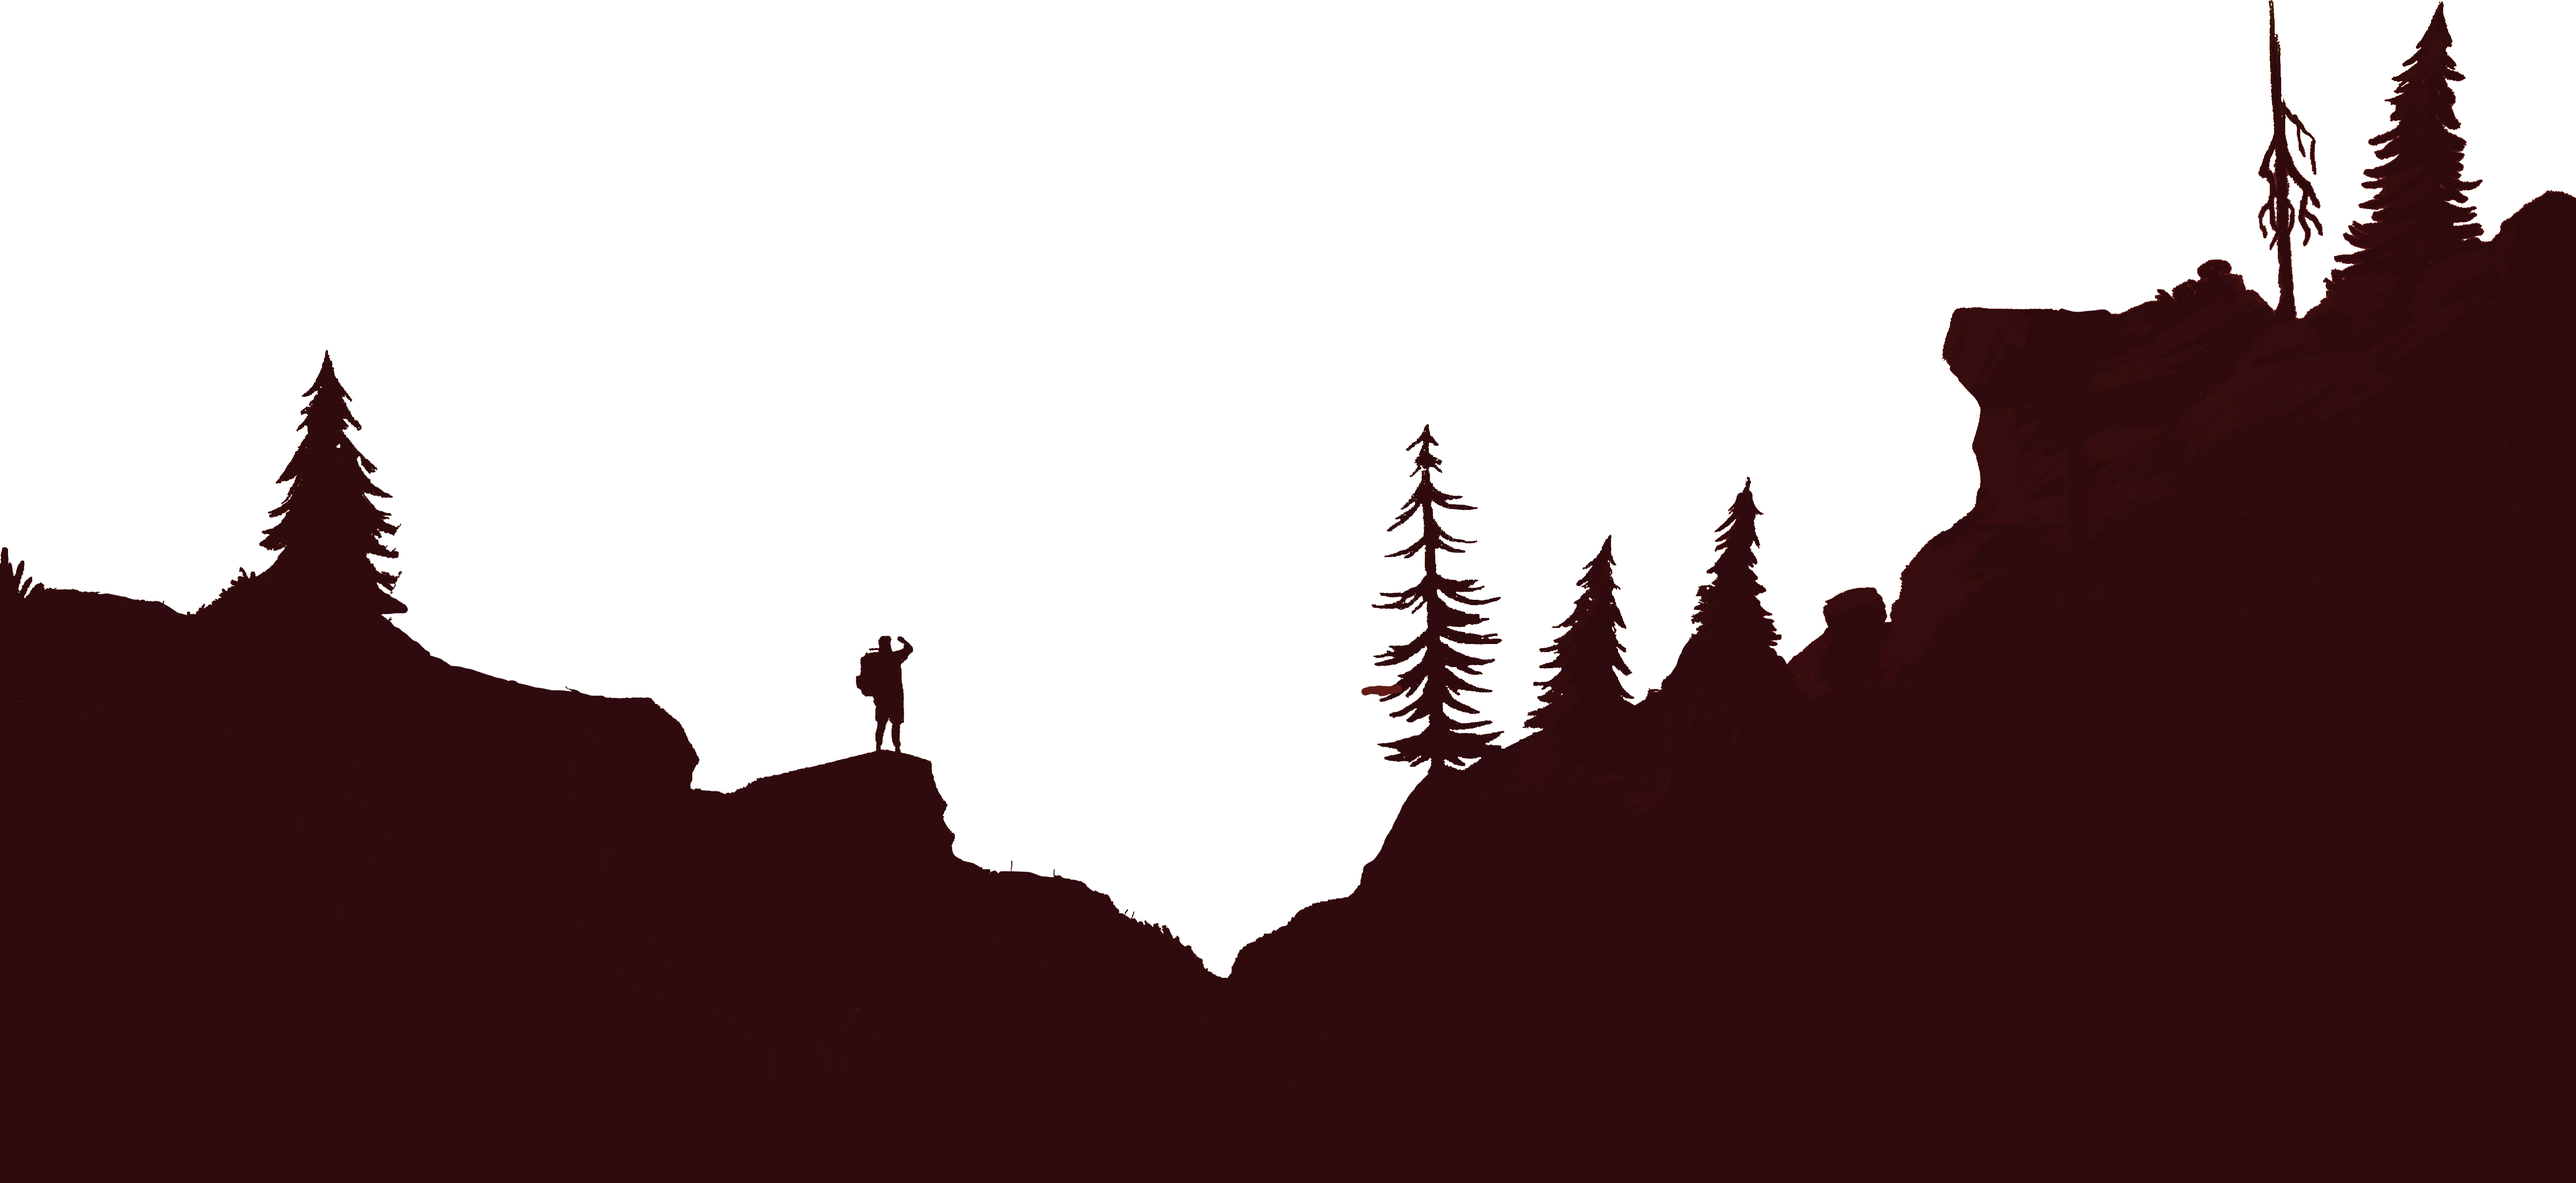
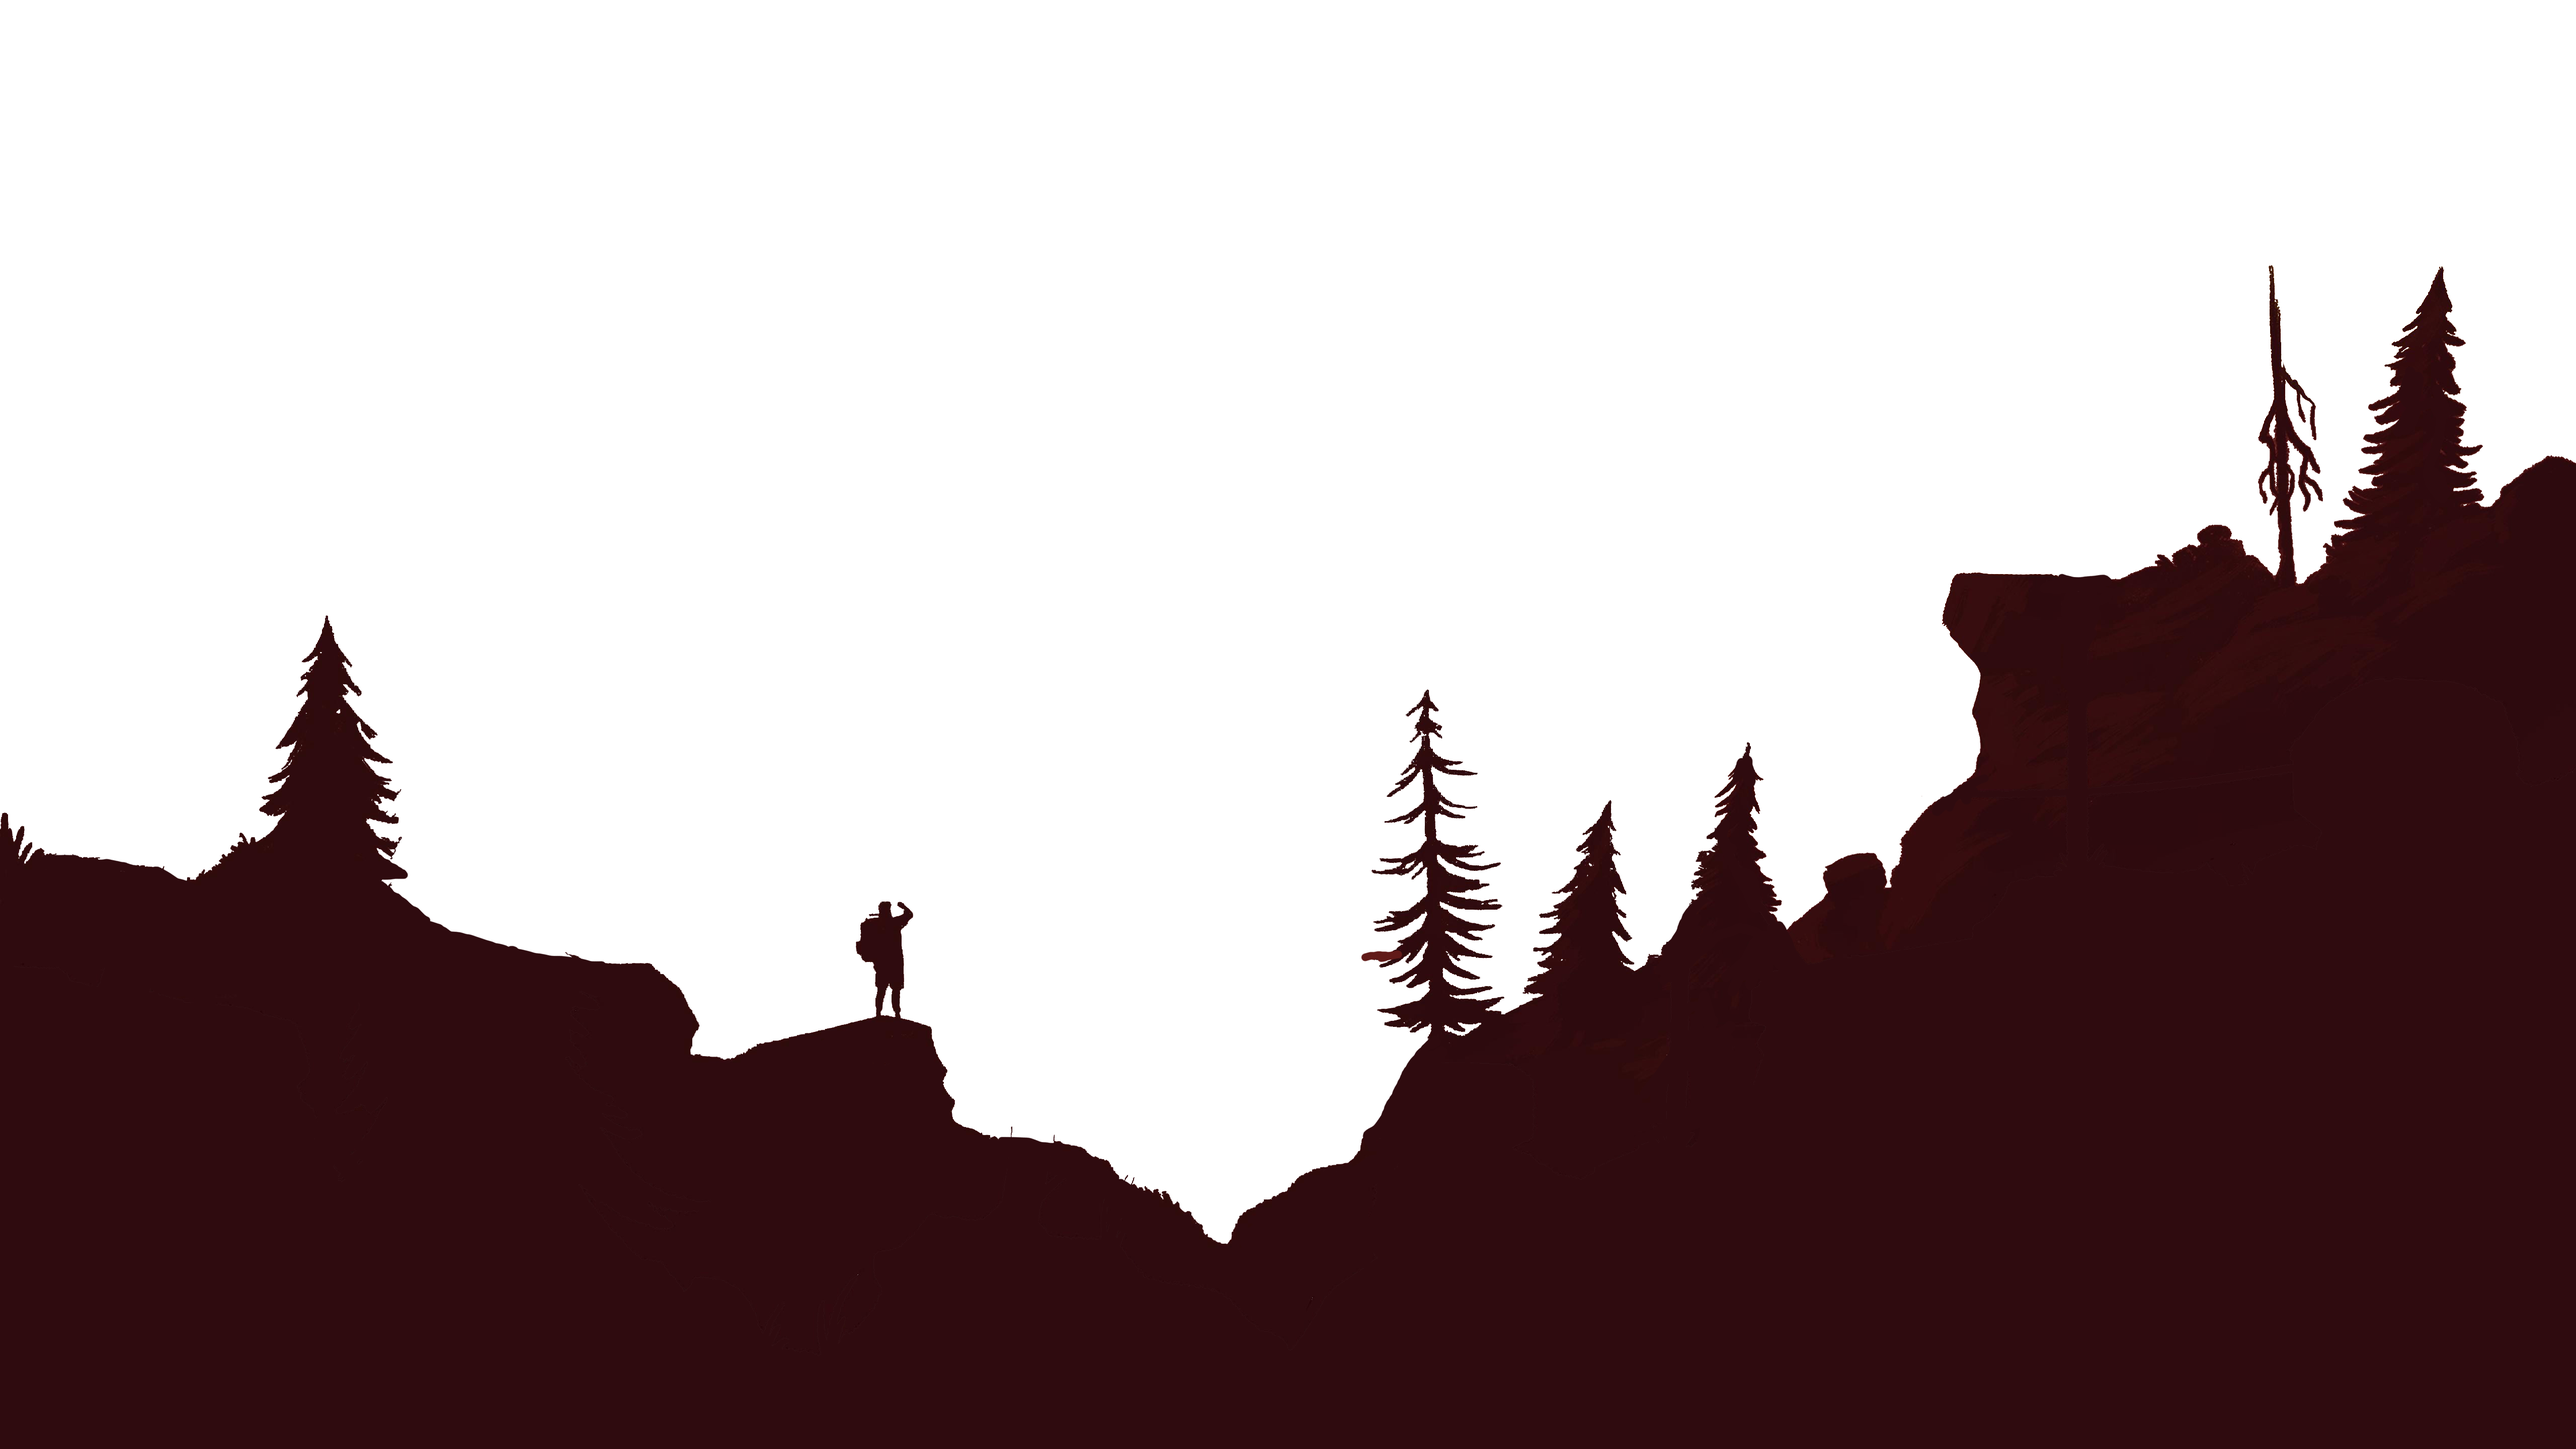
fixt parallax (#3)
* Merge branch 'bombastic' of https://github.com/PfadiMH/Frontend into bombastic

* functioning parallax effect

---------

Changed region(s): [[0.0, 0.0, 1.0, 0.8687]]

diff --git a/pfadimh/src/app/Components/ParalaxMountains.tsx b/pfadimh/src/app/Components/ParalaxMountains.tsx
@@ -1,40 +1,57 @@
 "use client";
-import {
-  ParallaxProvider,
-  ParallaxBanner,
-  Parallax,
-} from "react-scroll-parallax";
-import { useParallax } from "react-scroll-parallax";
-import React, { useRef } from "react";
-import Image from "next/image";
+import { ParallaxBanner } from "react-scroll-parallax";
 
-import { useParallaxController } from "react-scroll-parallax";
+import mountain1 from "../assets/1.png";
+import mountain2 from "../assets/2.png";
+import mountain3 from "../assets/3.png";
+import mountain4 from "../assets/4.png";
+import mountain5 from "../assets/5.png";
 
 export default function ParallaxMountains() {
   return (
-    <div className="h-[100vh]">
+    <div className="h-screen ">
       <ParallaxBanner
-        className="h-[100vh] bg-[#bbe8f6] aspect-[2/1]"
+        className="h-screen"
         layers={[
           {
-            image: "https://i.imgur.com/JuEP9bg.png",
-            speed: -40,
+            image: mountain5.src,
+            translateY: [0, 50],
+            shouldAlwaysCompleteAnimation: true,
+            expanded: false,
+          },
+
+          {
+            image: mountain4.src,
+            translateY: [5, 45],
+            shouldAlwaysCompleteAnimation: true,
+            expanded: false,
+          },
+
+          {
+            image: mountain3.src,
+            translateY: [10, 30],
+            shouldAlwaysCompleteAnimation: true,
+            expanded: false,
           },
           {
-            image: "https://i.imgur.com/lr3gurc.png",
-            speed: -30,
+            speed: 20,
+            children: (
+              <div className="absolute inset-0 flex items-center justify-center">
+                <h1 className="text-9xl text-white font-bold">Pfadi MH</h1>
+              </div>
+            ),
           },
           {
-            image: "https://i.imgur.com/lr3gurc.png",
-            speed: -20,
+            image: mountain2.src,
+            translateY: [10, 20],
+            shouldAlwaysCompleteAnimation: true,
+            expanded: false,
           },
           {
-            image: "https://i.imgur.com/iUHcYis.png",
-            speed: -10,
-          },
-          {
-            image: "https://i.imgur.com/SmAaims.png",
-            speed: 0,
+            image: mountain1.src,
+            translateY: [5, 20],
+            shouldAlwaysCompleteAnimation: true,
+            expanded: false,
           },
         ]}
       />

diff --git a/pfadimh/src/app/page.tsx b/pfadimh/src/app/page.tsx
@@ -1,11 +1,10 @@
 import { Link } from "@nextui-org/link";
-import Mountain from "@/app/Components/Mountain";
-import ParallaxMountains from "./Components/ParalaxMountains";
+import ParalaxMountains from "./Components/ParalaxMountains";
 
 export default function Home() {
   return (
-    <main>
-      <Mountain />
+    <main className="bg-">
+      <ParalaxMountains />
       <Link href="/Anschlag/OFI">
         <p> Page</p>
       </Link>
